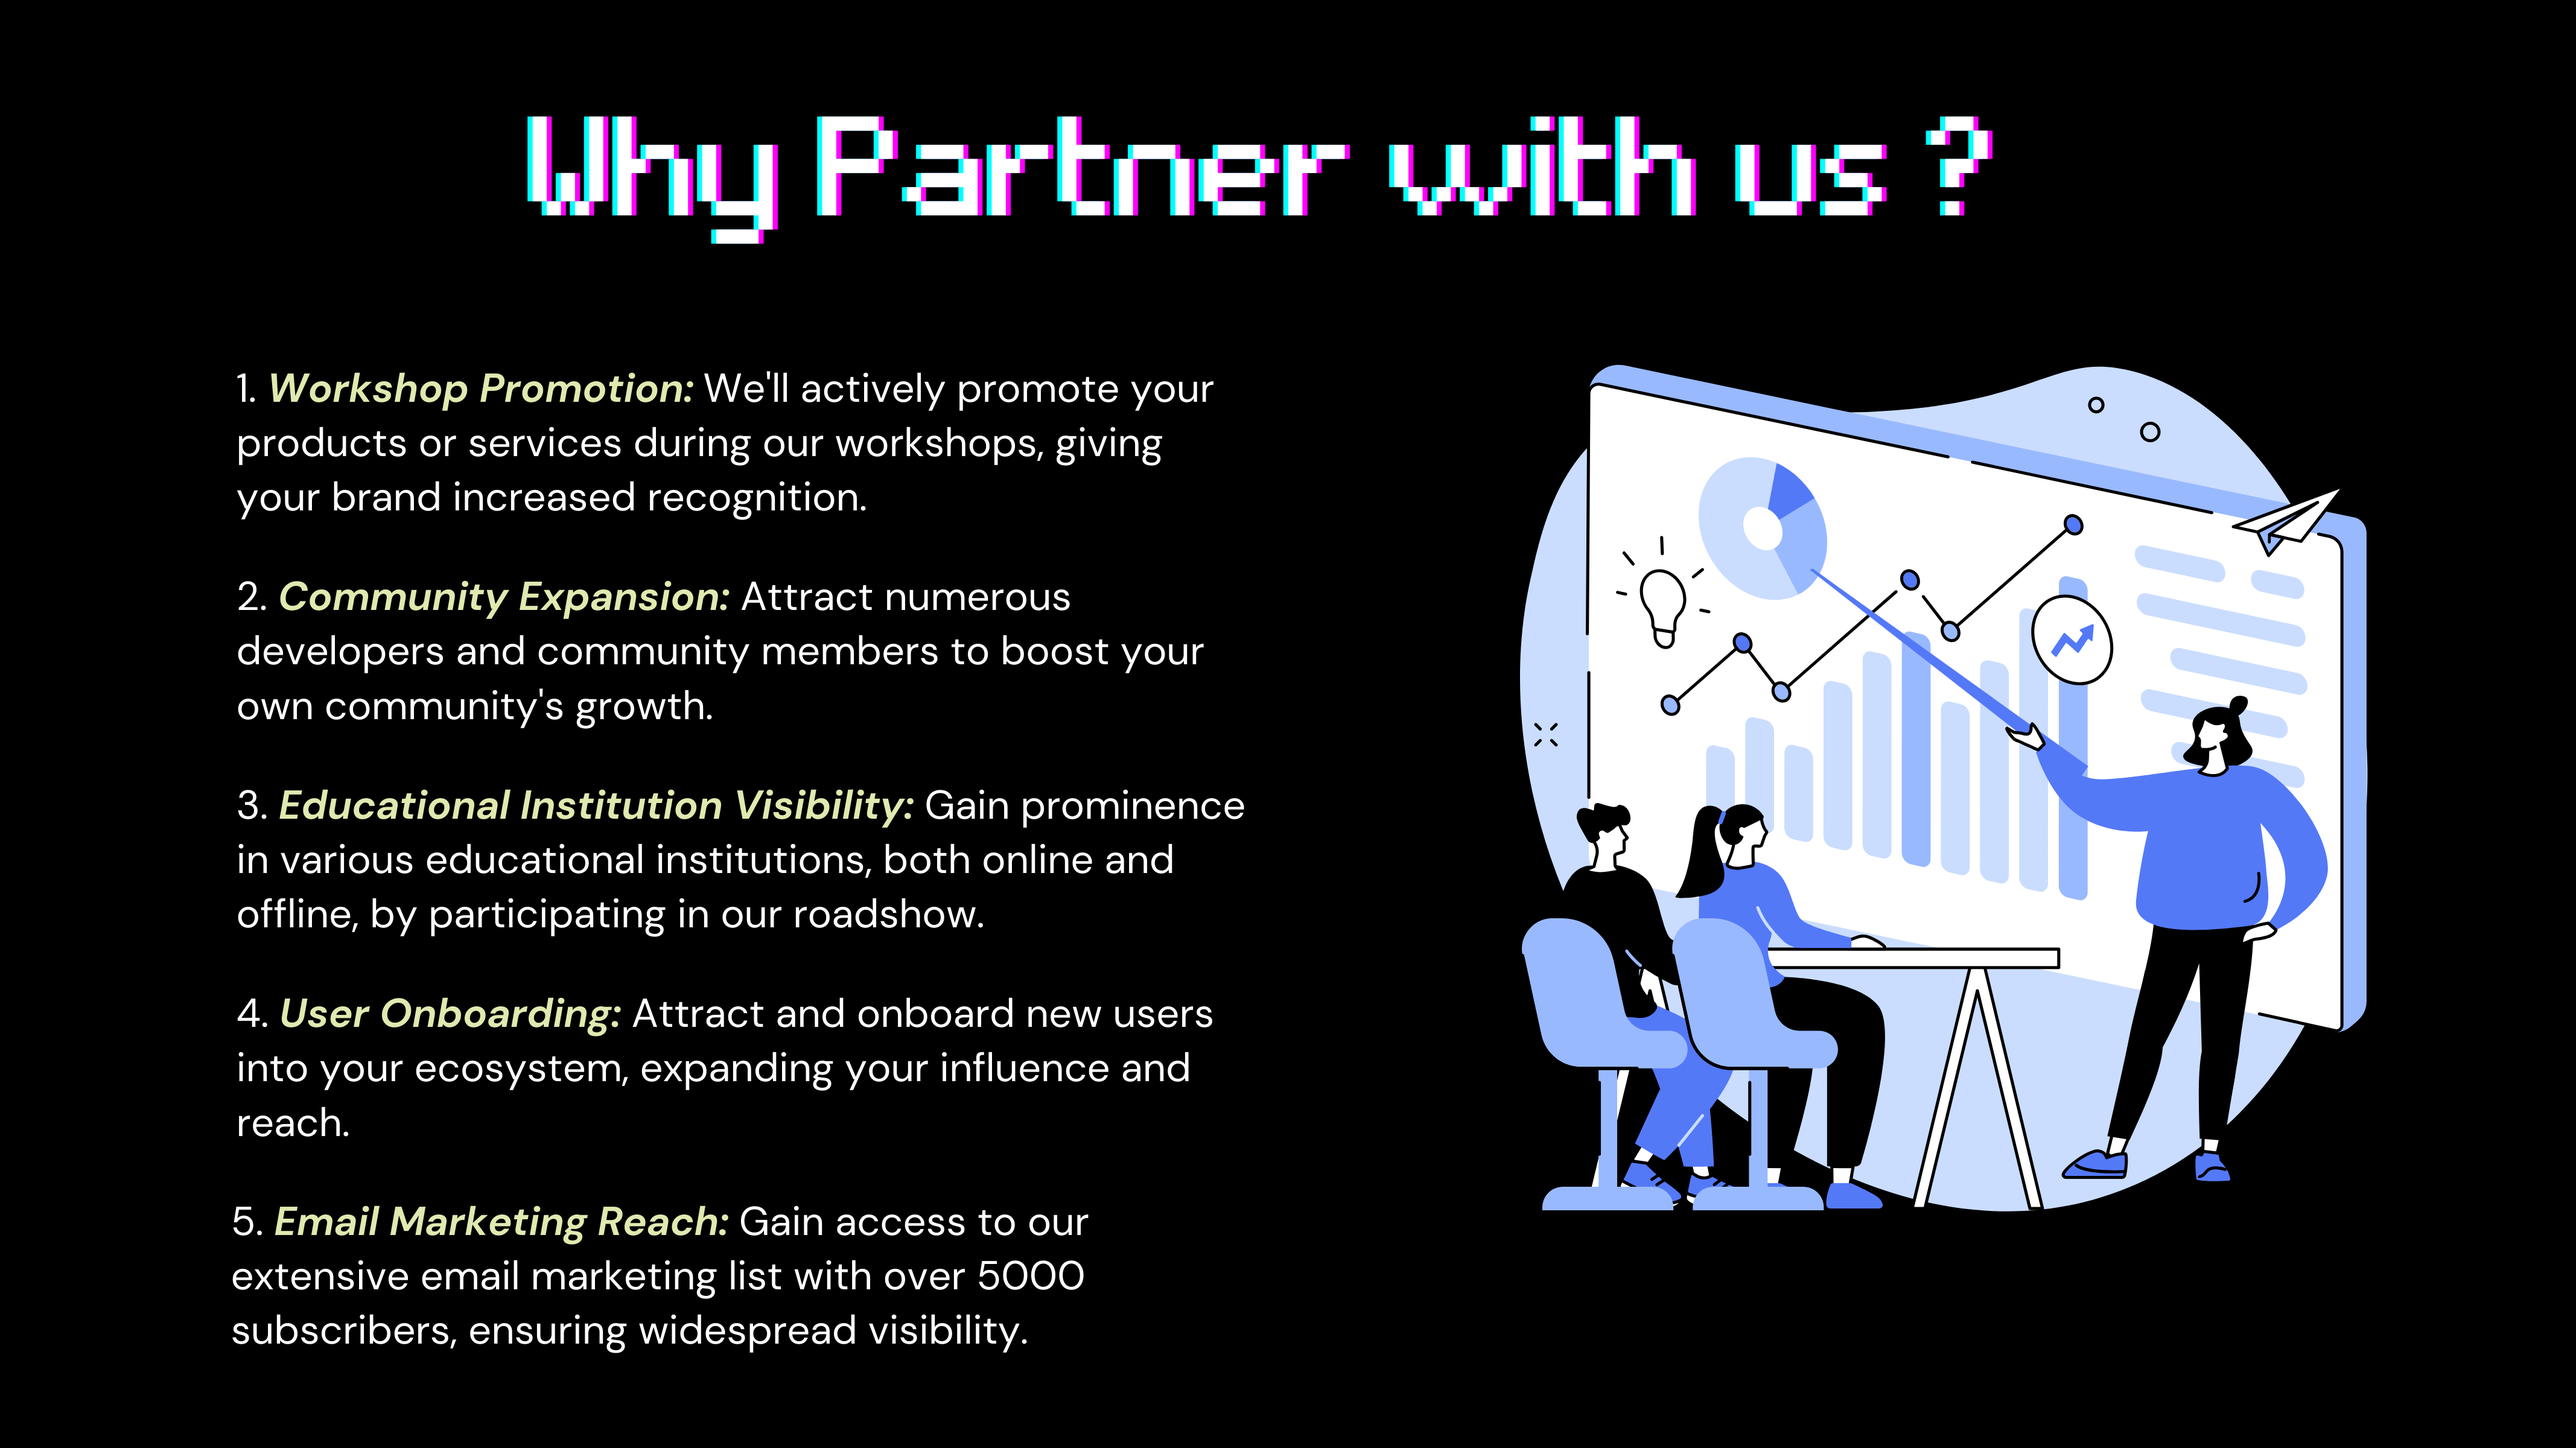
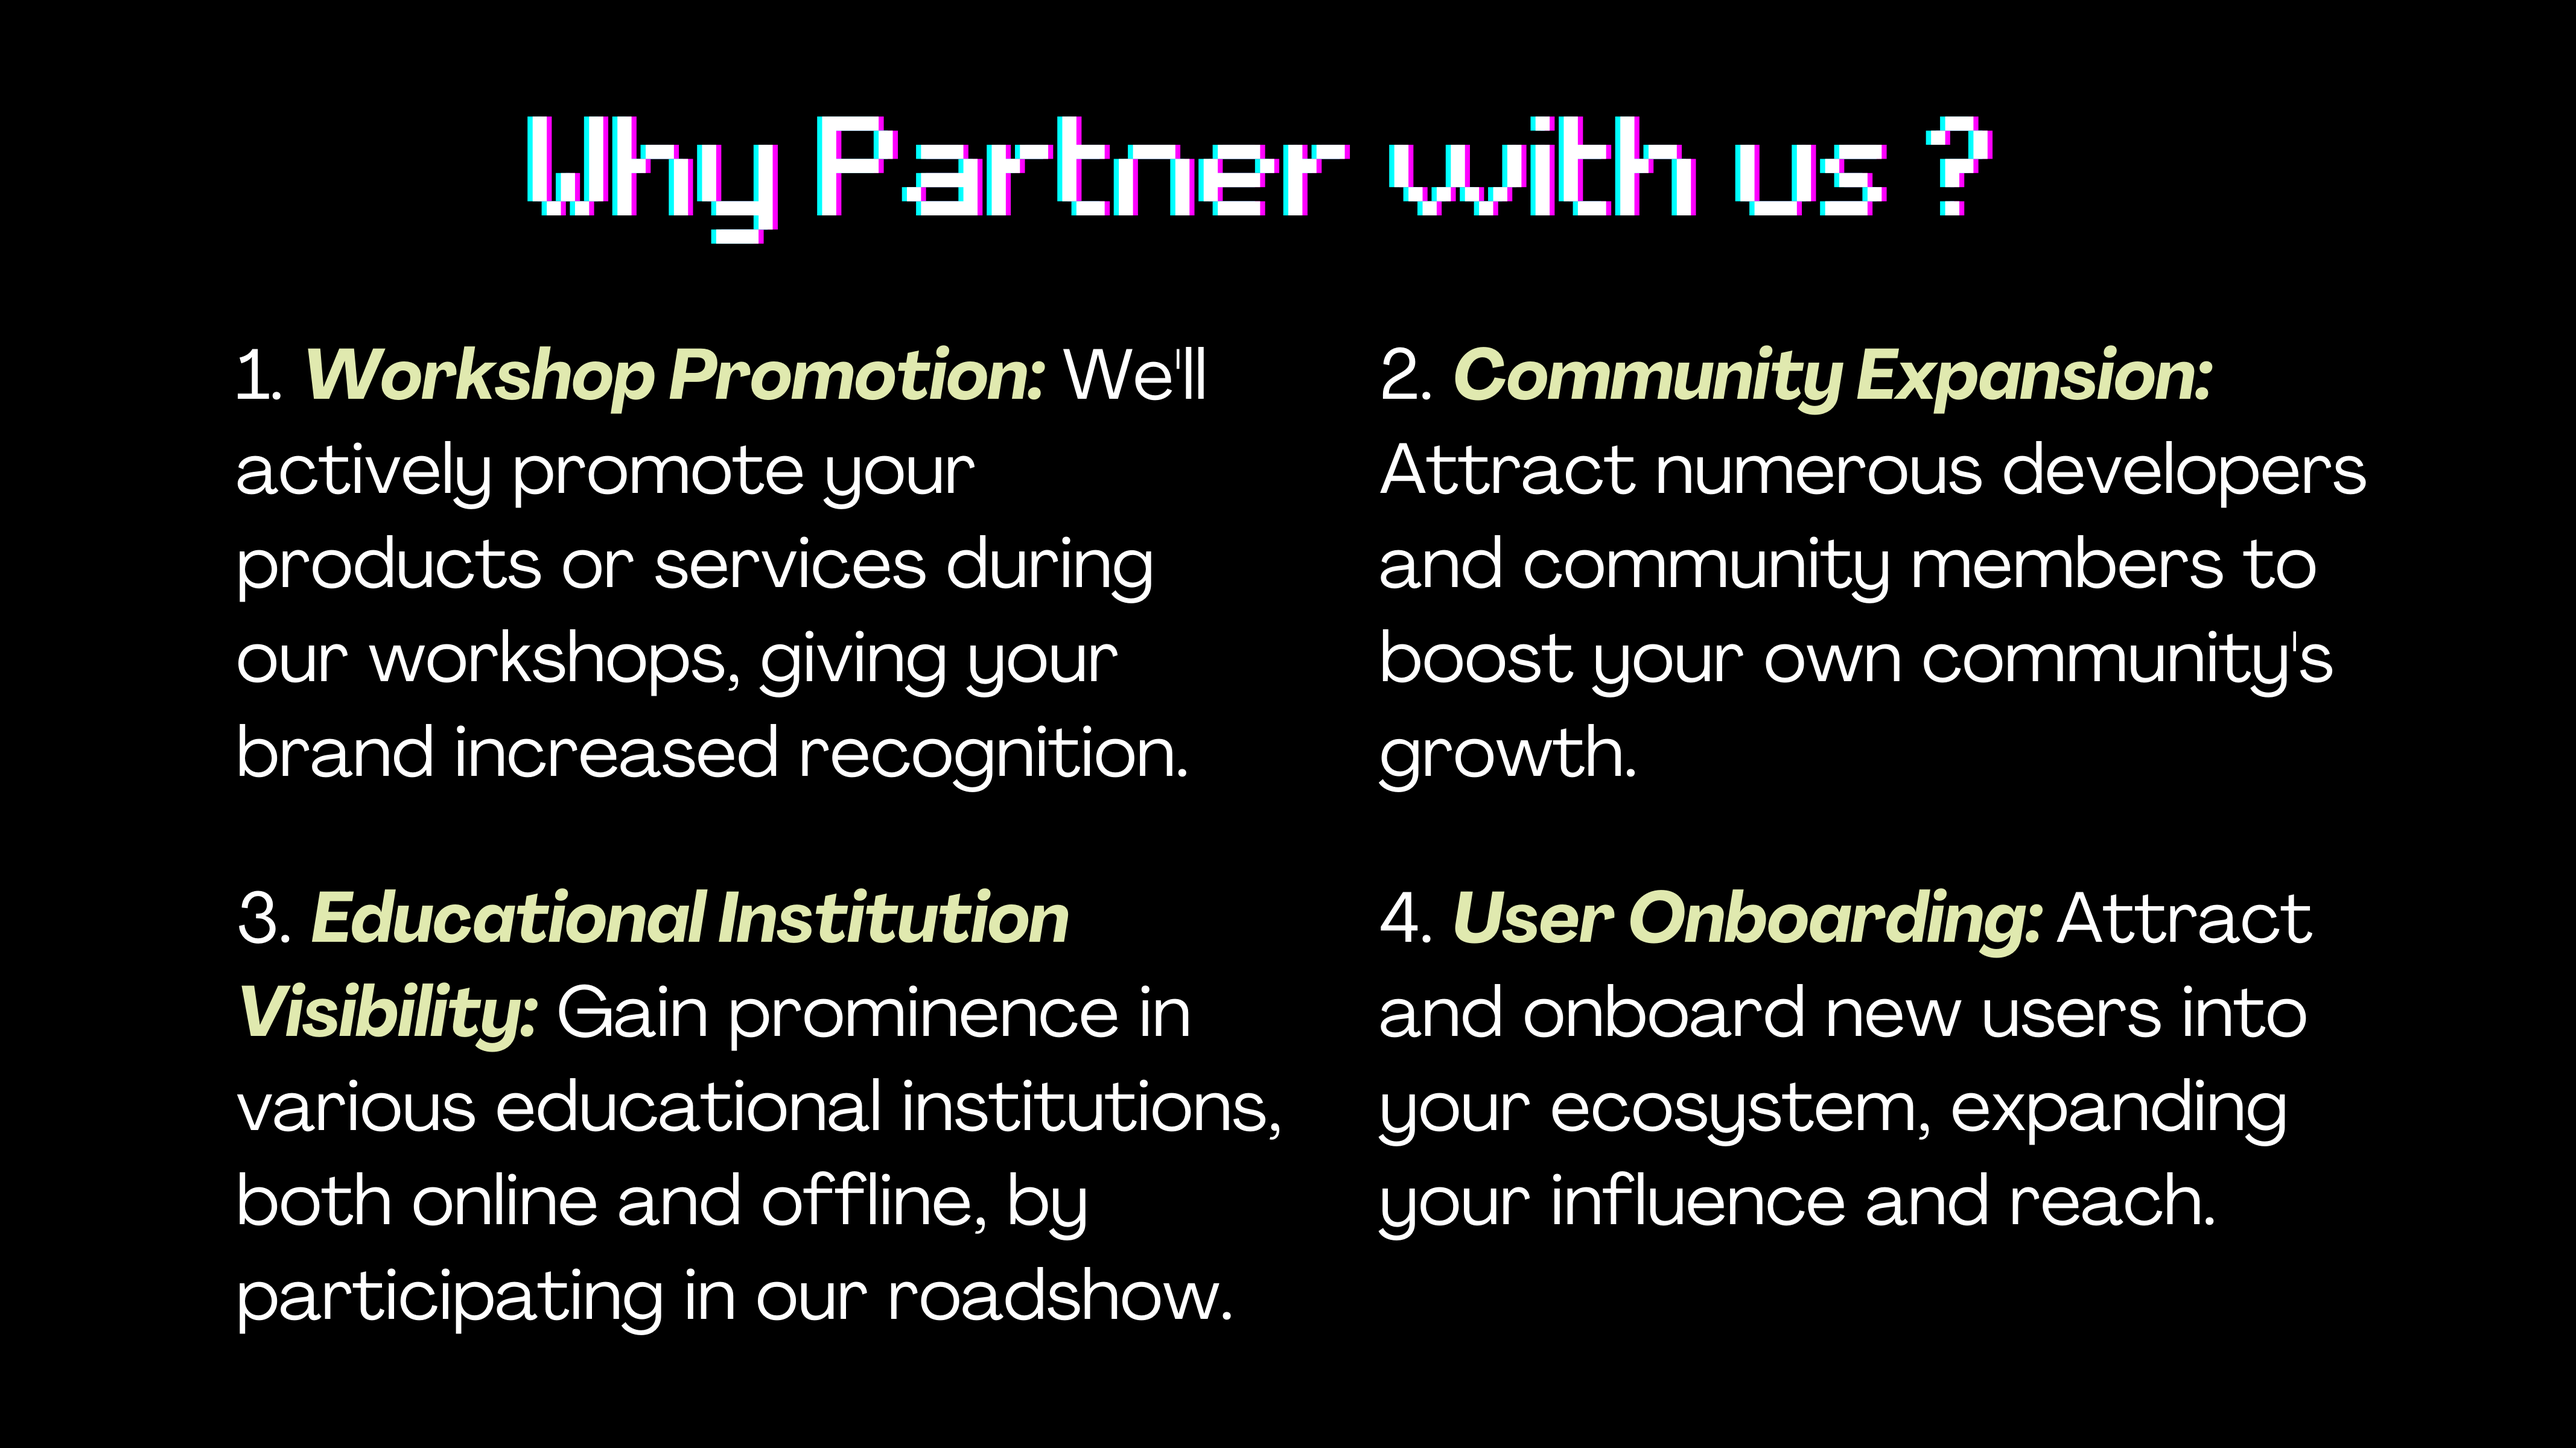
commit

Changed region(s): [[0.5296, 0.2188, 0.9346, 0.875], [0.0935, 0.2188, 0.4985, 0.7812], [0.0935, 0.8125, 0.4673, 0.9375]]

diff --git a/src/Home.js b/src/Home.js
@@ -288,27 +288,31 @@ function Home() {
 
 
 <br></br>
-<div id="about"></div>
-<img src={about} style={{width:'100%'}}></img>
-<br></br>
-
-    <a style={{height:'70%'}} href='https://t.me/connectverseweb3'><button style={{ height:'70%'}} class="button-85" role="button">Join Our Community </button></a>
-    <br></br> <br></br>
 <div id="partner"></div>
 <img src={p1} style={{width:'100%'}}></img>
 <img src={p2} style={{width:'100%'}}></img>
 
 
     <a style={{height:'70%'}} href='https://calendly.com/quantumworld394/30min'><button style={{height:'70%'}} class="button-85" role="button">Partner With Us</button></a>
+    <br></br>
+    <br></br>
+<div id="about"></div>
+<img src={about} style={{width:'100%'}}></img>
+<br></br>
+<img src={team} style={{width:'100%'}}></img>
+
+    <a style={{height:'70%'}} href='https://t.me/connectverseweb3'><button style={{ height:'70%'}} class="button-85" role="button">Join Our Community </button></a>
+    <br></br> <br></br>
+
      
 
 
  </div>
- <br></br><br></br>
- <img src={testimonials} style={{width:'100%'}}></img>
- <br></br><br></br>
-    
-<img src={team} style={{width:'100%'}}></img>
+ <br></br>
+
+
+
+
 
  
    
@@ -399,8 +403,7 @@ Find Us On
 <SocialIcon url="https://in.linkedin.com/company/connect-verse"/>
 &nbsp;&nbsp;&nbsp;
 <SocialIcon url="https://t.me/connectverseweb3"/>
-&nbsp;&nbsp;&nbsp;
-<SocialIcon url="https://www.instagram.com/connectverse.events/"/>
+
 <br></br><br></br><br></br><br></br>
 <img style={{width:'8em'}} src={logo}></img>
 &nbsp;
